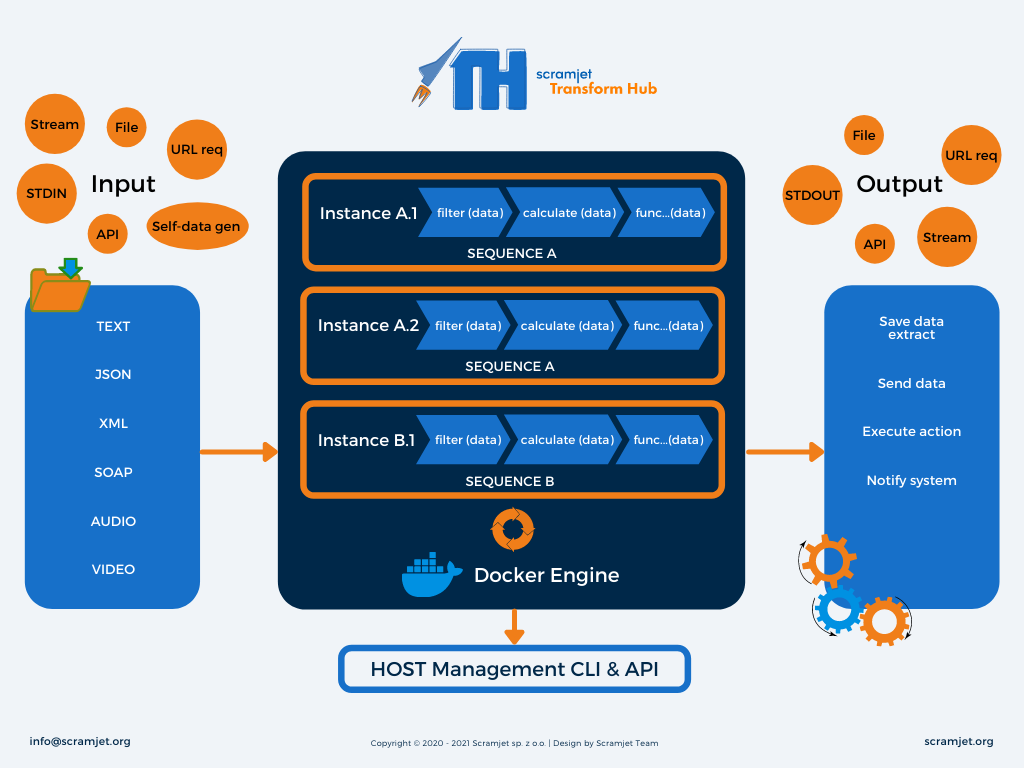
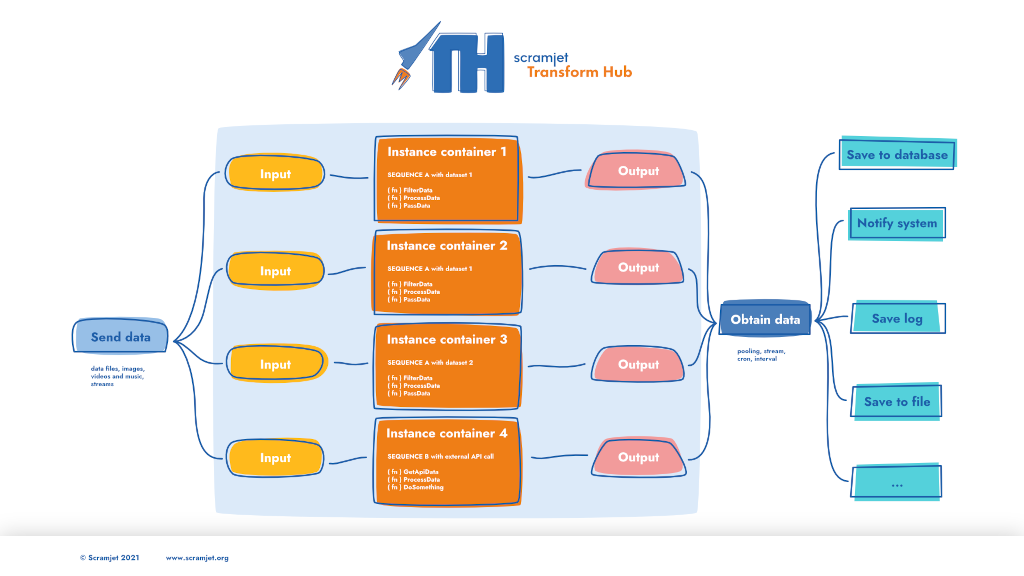
Feature/update readme graphic (#7)
* Updated STH diagram to new version

* Updated README and hello-snowman sample based on changes in STH release 0.12.1

diff --git a/tools/stream-gen-tool/stream-gen.js b/tools/stream-gen-tool/stream-gen.js
@@ -8,7 +8,7 @@ const req = http.request({
     headers: { "Content-Type":  "application/octet-stream" },
 });
 http.get(`http://127.0.0.1:8000/api/v1/instance/${instanceId}/output`, res => {
-    res.on('data', (outData) => console.log('OUTPUT| ' + outData))
+    res.on('data', (outData) => console.log('OUTPUT| ' + outData.toString()))
 });
 const wait = ms => new Promise(res => setTimeout(res, ms))
 let msgCounter = 0

diff --git a/samples/hello-snowman/index.js b/samples/hello-snowman/index.js
@@ -2,7 +2,7 @@ const { PassThrough } = require("stream");
 
 module.exports = function(input) {
     // create output stream
-    const out = new PassThrough();
+    const out = new PassThrough({encoding: 'utf-8'});
 
     // do something for each number in input stream
     input.on("data", data => {

diff --git a/README.md b/README.md
@@ -128,10 +128,10 @@ Now we have uploaded sequence to the host and host assigned to it a random ID (G
 
 ## **4.3 Run the sequence**
 
-We can now use sequence ID to run this uploaded sequence. The command is `si seq start <sequence_id>  '[]'`. The final array is used to pass parameters to the sequence, in case of our `hello-snowman` parameters are not used so array is empty.
+We can now use sequence ID to run this uploaded sequence. The command is `si seq start <sequence_id>`. You can also pass arbitrary number of parameters by providing them after <sequence_id>, in case of our `hello-snowman` parameters are not used.
 For example for the above sequence we could write:
 ```console
-si sequence start cf775cc1-105b-473d-b929-6885a0c2182c  '[]'
+si sequence start cf775cc1-105b-473d-b929-6885a0c2182c
 ```
 the output would look similiar to this one:
 ```console
